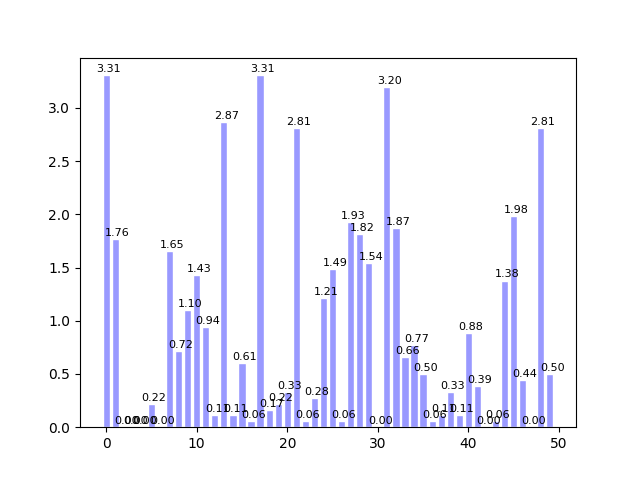
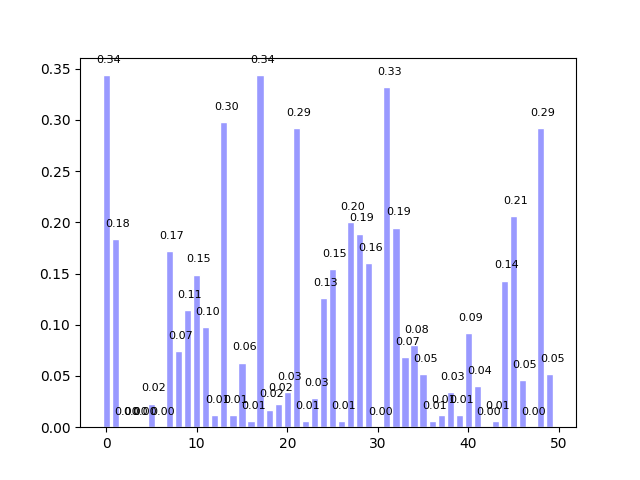
fjjkdlf

diff --git a/hw2/problem3/main.py b/hw2/problem3/main.py
@@ -56,6 +56,7 @@ plt.savefig('pic/3_2pca_cluster.png')
 #                    problem 3.3                              #
 ###############################################################
 '''
+'''
 feature=[]
 for d in os.listdir('train-10'):
     for f in os.listdir('train-10/{}'.format(d)):
@@ -73,10 +74,10 @@ for  i in mode:
     #print(emb.shape)
     dm.plot_bar(emb,'pic/3_3_histogram_{}_{}.png'.format(i[0],i[1]))
 '''
+'''
 ###############################################################
 #                    problem 3.3                              #
 ###############################################################
-'''
 '''
 train_dir='train-10'
 test_dir='test-100'
@@ -105,10 +106,9 @@ for i in range(len(test_dir_list)):
 mode=[('soft','max'),('hard','sum'),('soft','sum')]
 for m in mode:
     train_x_emb=np.array([dm.embedding(i,m) for i in train_x])
-    dm.KNN_construct(train_x_emb,train_y,len(train_dir))
+    dm.KNN_construct(train_x_emb,train_y,5)
 
     pred=np.array([dm.KNN_predict([dm.embedding(i,m)])[0] for i in test_x])
     correct=(test_y==pred).sum()
     print('Mode {} {} | Accuracy: {}%'.format(m[0],m[1],100.*correct/len(pred)))
-'''
 '''

diff --git a/hw2/problem3/util.py b/hw2/problem3/util.py
@@ -57,7 +57,8 @@ class Datamanager:
     def pooling(self,data,mode):
         if mode=='sum':
             res=np.sum(data,0)
-            res/=np.std(res)
+            res/=np.linalg.norm(res)
+            print(np.linalg.norm(res))
             return res
         elif mode=='max':
             return np.max(data,0)
